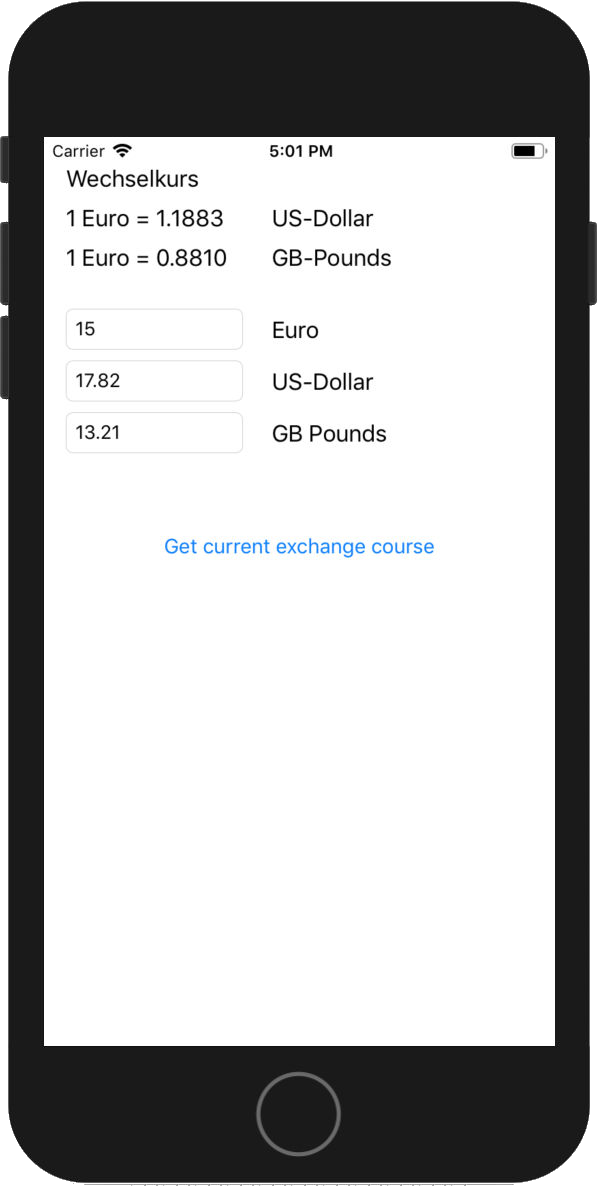
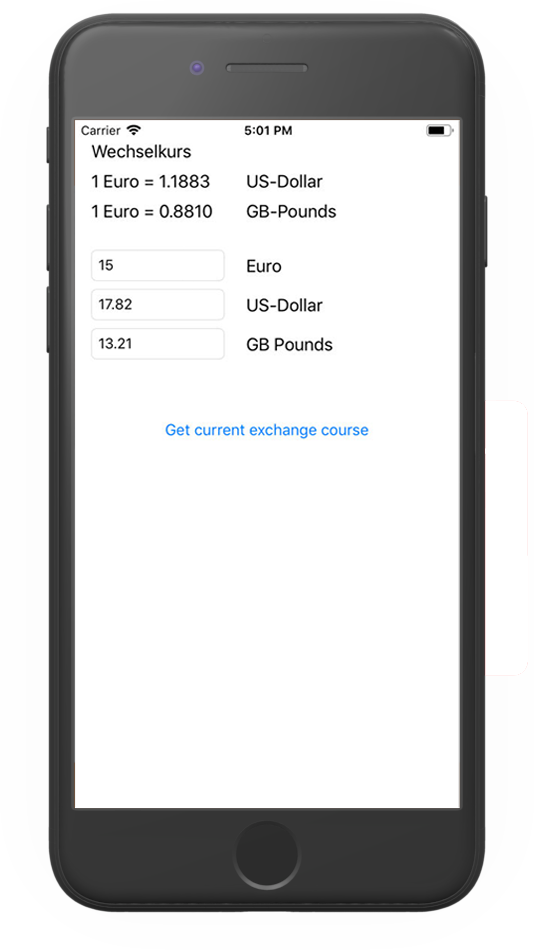
prepared pictures for dark mode switch

diff --git a/index.html b/index.html
@@ -37,8 +37,8 @@
               <div class="p-2"><button type="button" class="btn btn-outline-secondary btn-sm">work</button></div>
             </div>
             <div class="img-box d-flex justify-content-center">
-              <img src="images/wetter-ads.png" class="img-fluid rounded" alt="wetter.com Ad-Framework Showcase 1">
-              <img src="images/wetter-ads-2.png" class="img-fluid rounded" alt="wetter.com Ad-Framework Showcase 2">
+              <picture><source srcset="images/wetter-ads.png" media="(prefers-color-scheme: dark)"><img src="images/wetter-ads.png" class="img-fluid rounded" alt="wetter.com Ad-Framework Showcase 1"></picture>
+              <picture><source srcset="images/wetter-ads-2.png" media="(prefers-color-scheme: dark)"><img src="images/wetter-ads-2.png" class="img-fluid rounded" alt="wetter.com Ad-Framework Showcase 2"></picture>
             </div>
             <p>A new ad framework was implemented that takes care of all display banners, pre- and interstitial banner and pre-roll video ads.</p>
             <button type="button" class="btn btn-outline-primary btn-sm">Swift</button>
@@ -81,8 +81,8 @@
               <div class="p-2"><button type="button" class="btn btn-outline-secondary btn-sm">take home project</button></div>
             </div>
             <div class="img-box d-flex justify-content-center">
-              <img src="images/github-main.png" class="img-fluid rounded" alt="GitHub Followers main page">
-              <img src="images/github-search.png" class="img-fluid rounded" alt="GitHub Followers search page">
+              <picture><source srcset="images/github-main.png" media="(prefers-color-scheme: dark)"><img src="images/github-main.png" class="img-fluid rounded" alt="GitHub Followers main page"></picture>
+              <picture><source srcset="images/github-search.png" media="(prefers-color-scheme: dark)"><img src="images/github-search.png" class="img-fluid rounded" alt="GitHub Followers search page"></picture>
             </div>
             <p>This project aims to fulfill the usual take home project's requirements. It uses a programmatic custom UI, network calls, supports dark mode, persistence of data, inheritence and other iOS APIs, but avoids the usage of 3rd party libraries entirely.</p>
             <button type="button" class="btn btn-outline-primary btn-sm">Swift</button>
@@ -100,9 +100,9 @@
               <div class="p-2"><button type="button" class="btn btn-outline-secondary btn-sm">university</button></div>
             </div>
             <div class="img-box d-flex justify-content-center">
-              <img src="images/wetter-shop.png" class="img-fluid rounded" alt="wetter.com shop relaunch">
-              <img src="images/wetter-shop-2.png" class="img-fluid rounded" alt="wetter.com app icons">
-              <img src="images/wetter-shop-3.png" class="img-fluid rounded" alt="wetter.com weather icons">
+              <picture><source srcset="images/wetter-shop.png" media="(prefers-color-scheme: dark)"><img src="images/wetter-shop.png" class="img-fluid rounded" alt="wetter.com shop relaunch"></picture>
+              <picture><source srcset="images/wetter-shop-2.png" media="(prefers-color-scheme: dark)"><img src="images/wetter-shop-2.png" class="img-fluid rounded" alt="wetter.com app icons"></picture>
+              <picture><source srcset="images/wetter-shop-3.png" media="(prefers-color-scheme: dark)"><img src="images/wetter-shop-3.png" class="img-fluid rounded" alt="wetter.com weather icons"></picture>
             </div>
             <p>The shop of wetter.com was overhauled and with it a new subscription model was introduced, as well as other purchases like individual app icons.</p>
             <button type="button" class="btn btn-outline-primary btn-sm">Swift</button>
@@ -121,9 +121,9 @@
               <div class="p-2"><button type="button" class="btn btn-outline-secondary btn-sm">university</button></div>
             </div>
             <div class="img-box d-flex justify-content-center">
-              <img src="images/textify-main.png" class="img-fluid rounded" alt="Textify main page">
-              <img src="images/textify-edit.png" class="img-fluid rounded" alt="Textify edit page">
-              <img src="images/textify-share.png" class="img-fluid rounded" alt="Textify sharing">
+              <picture><source srcset="images/textify-main.png" media="(prefers-color-scheme: dark)"><img src="images/textify-main.png" class="img-fluid rounded" alt="Textify main page"></picture>
+              <picture><source srcset="images/textify-edit.png" media="(prefers-color-scheme: dark)"><img src="images/textify-edit.png" class="img-fluid rounded" alt="Textify edit page"></picture>
+              <picture><source srcset="images/textify-share.png" media="(prefers-color-scheme: dark)"><img src="images/textify-share.png" class="img-fluid rounded" alt="Textify content sharing"></picture>
             </div>
             <p>Textify is the application that I build for my bachelor thesis. It uses the an OCR framework read the text of any source file. Processed images and texts persist, can be edited and even shared.</p>
             <button type="button" class="btn btn-outline-primary btn-sm">Swift</button>
@@ -141,8 +141,8 @@
               <div class="p-2"><button type="button" class="btn btn-outline-secondary btn-sm">work</button></div>
             </div>
             <div class="img-box d-flex justify-content-center">
-              <img src="images/ruhr-nachrichten.png" class="img-fluid rounded" alt="Ruhr Nachrichten Prototype Main Screen">
-              <img src="images/ruhr-nachrichten2.png" class="img-fluid rounded" alt="Ruhr Nachrichten Prototype Options Screen">
+              <picture><source srcset="images/ruhr-nachrichten.png" media="(prefers-color-scheme: dark)"><img src="images/ruhr-nachrichten.png" class="img-fluid rounded" alt="Ruhr Nachrichten Prototype Main Screen"></picture>
+              <picture><source srcset="images/ruhr-nachrichten2.png" media="(prefers-color-scheme: dark)"><img src="images/ruhr-nachrichten2.png" class="img-fluid rounded" alt="Ruhr Nachrichten Prototype Options Screen"></picture>
             </div>
             <p>This is a webview application with a native navigation which was created as a prototype for a pitch. Theoretically it can display any website as long as the site has a mobile responsive design.</p>
             <button type="button" class="btn btn-outline-primary btn-sm">Swift</button>
@@ -159,8 +159,8 @@
               <div class="p-2"><button type="button" class="btn btn-outline-secondary btn-sm">take home project</button></div>
             </div>
             <div class="img-box d-flex justify-content-center">
-              <img src="images/bitcointracker-light.png" class="img-fluid rounded" alt="BitCoin Tracker light mode">
-              <img src="images/bitcointracker-dark.png" class="img-fluid rounded" alt="BitCoin Tracker dark mode">
+              <picture><source srcset="images/bitcointracker-light.png" media="(prefers-color-scheme: dark)"><img src="images/bitcointracker-light.png" class="img-fluid rounded" alt="BitCoin Tracker light mode"></picture>
+              <picture><source srcset="images/bitcointracker-dark.png" media="(prefers-color-scheme: dark)"><img src="images/bitcointracker-dark.png" class="img-fluid rounded" alt="BitCoin Tracker dark mode"></picture>
             </div>
             <p>This is a simple BitCoin currency tracker that performs network calls and saves the last successful call. To spice things up a gesture for switching between light and dark mode with a neat little transition effect was implemented.</p>
             <button type="button" class="btn btn-outline-primary btn-sm">Swift</button>
@@ -242,7 +242,7 @@
               <div class="p-2"><button type="button" class="btn btn-outline-secondary btn-sm">university</button></div>
             </div>
             <div class="img-box d-flex justify-content-center">
-              <img src="images/puppet-brawl.png" class="img-fluid rounded" alt="Puppet Brawl game scene">
+              <img src="images/puppet-brawl.jpg" class="img-fluid rounded" alt="Puppet Brawl game scene">
             </div>
             <p>Puppet Brawl is a physics based Beat 'em Up game built with Unity. One of its key features is an AI opponent which was trained with machine learning thanks to the ml-agents machine learning API for Unity.</p>
             <button type="button" class="btn btn-outline-primary btn-sm">C#</button>
@@ -309,7 +309,7 @@
               <div class="p-2"><button type="button" class="btn btn-outline-secondary btn-sm">university</button></div>
             </div>
             <div class="img-box d-flex justify-content-center">
-              <img src="images/currency-converter.png" class="img-fluid rounded" alt="Currency Converter iOS App">
+              <picture><source srcset="images/currency-converter.png" media="(prefers-color-scheme: dark)"><img src="images/currency-converter.png" class="img-fluid rounded" alt="Currency Converter iOS App"></picture>
             </div>
             <p>A basic currency converter built with native Swift native iOS app, fetching the current exchange rate from an API.</p>
             <button type="button" class="btn btn-outline-primary btn-sm">Swift</button>

diff --git a/css/styles.css b/css/styles.css
@@ -67,3 +67,8 @@ img {
 .btn {
   pointer-events: none;
 }
+
+.btn-outline-primary {
+  color: #17A2B8;
+  border-color: #17A2B8;
+}
